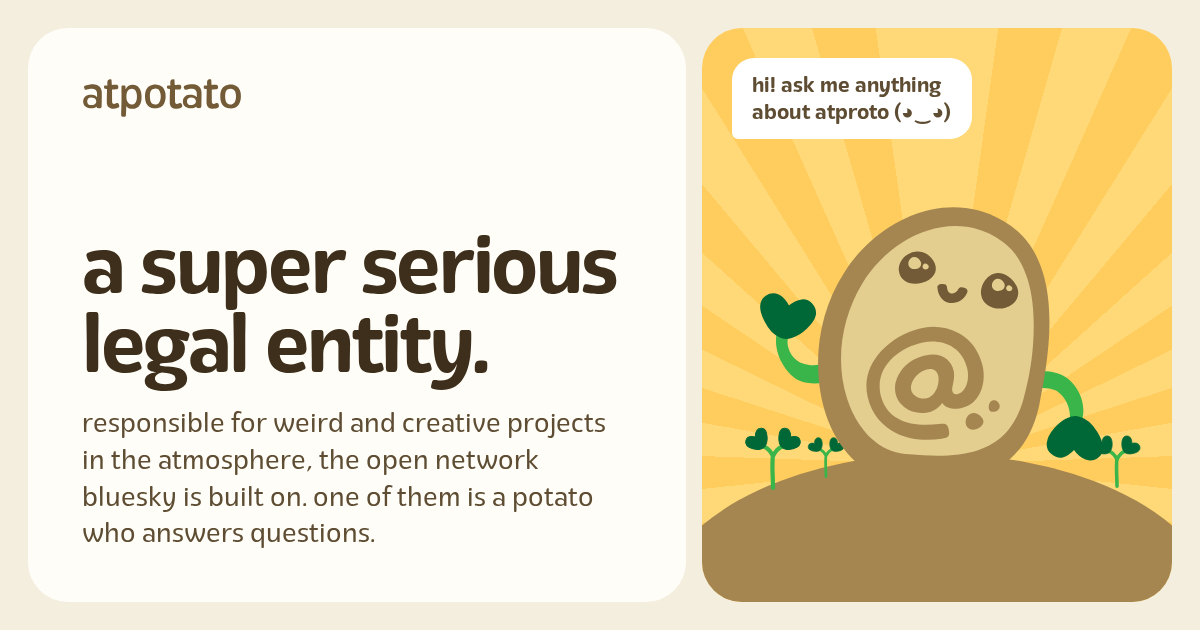
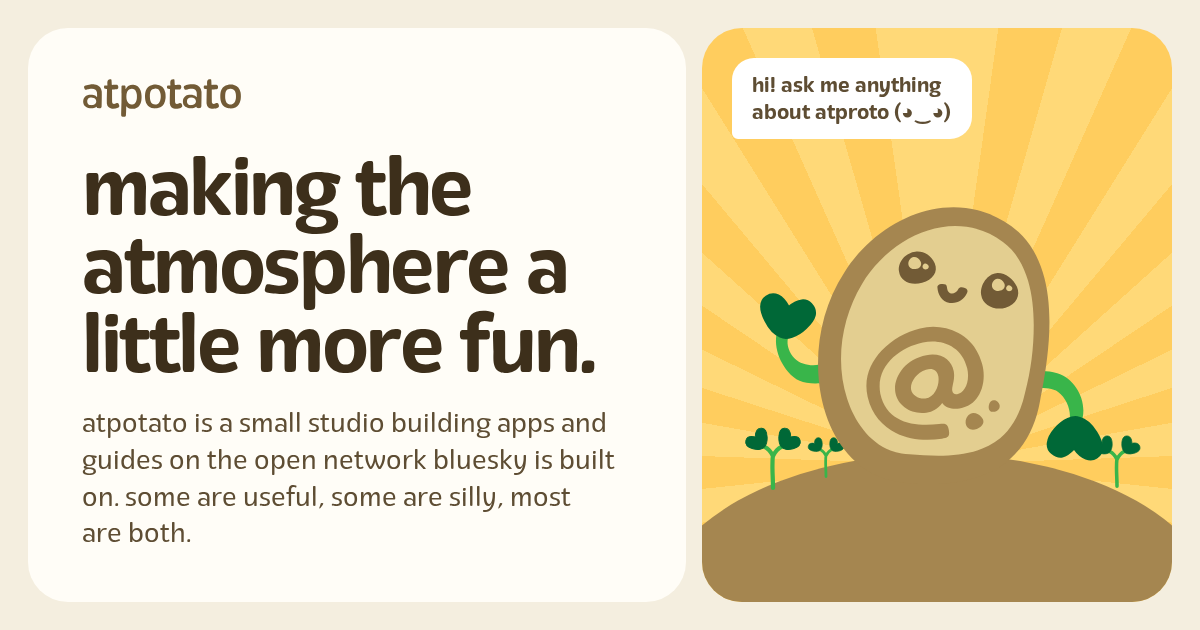
Retire the "super serious legal entity" tagline
The home hero now reads "making the atmosphere a little more fun.", with
"atpotato is a small studio building apps and guides on the open network
bluesky is built on. some are useful, some are silly, most are both." under
it. The footer, the home meta and Open Graph descriptions, and the home
card's alt text say the same, and public/og/home.png is re-rendered from the
new copy (the Vercel build re-renders it anyway).

The og-cards test compared the home lede to a fixed opening; it now compares
it to the page's own lede, so copy changes don't need a test change.

Claude-Session: https://claude.ai/code/session_013QGyCcKYtUYgtSnNsW49Fr

Changed region(s): [[0.0617, 0.2413, 0.5242, 0.6333], [0.0617, 0.6635, 0.5242, 0.8746]]

diff --git a/website/index.html b/website/index.html
@@ -7,7 +7,7 @@
     <meta name="viewport" content="width=device-width, initial-scale=1.0">
     <title>atpotato</title>
     <meta name="title" content="atpotato">
-    <meta name="description" content="a super serious legal entity responsible for weird and creative atmosphere projects. ask poe a question: @poe.atpota.to">
+    <meta name="description" content="atpotato is a small studio making the atmosphere a little more fun, with apps and guides on the open network bluesky is built on. ask poe a question: @poe.atpota.to">
     <link rel="canonical" href="https://atpota.to/">
     <meta name="color-scheme" content="light dark">
     <meta name="theme-color" content="#F4EEDF">
@@ -18,11 +18,11 @@
     <meta property="og:site_name" content="atpotato">
     <meta property="og:url" content="https://atpota.to/">
     <meta property="og:title" content="atpotato">
-    <meta property="og:description" content="a super serious legal entity responsible for weird and creative atmosphere projects. ask poe a question: @poe.atpota.to">
+    <meta property="og:description" content="atpotato is a small studio making the atmosphere a little more fun, with apps and guides on the open network bluesky is built on. ask poe a question: @poe.atpota.to">
     <meta property="og:image" content="https://atpota.to/og/home.png">
     <meta property="og:image:width" content="1200">
     <meta property="og:image:height" content="630">
-    <meta property="og:image:alt" content="atpotato: a super serious legal entity. poe, a smiling potato with an @ on its tummy, waves from a dirt mound under a yellow sunburst.">
+    <meta property="og:image:alt" content="atpotato: making the atmosphere a little more fun. poe, a smiling potato with an @ on its tummy, waves from a dirt mound under a yellow sunburst.">
     <!-- og images: scripts/og-cards.html, rendered with npm run og -->
     <meta name="twitter:card" content="summary_large_image">
 
@@ -50,8 +50,8 @@
       <div class="home-grid">
 
         <section class="tile home-hero" aria-labelledby="home-title">
-          <h1 class="home-hero__title" id="home-title">a super serious legal entity.</h1>
-          <p class="home-hero__lede">responsible for weird and creative projects in the atmosphere, the open network bluesky is built on. one of them is a potato who answers questions.</p>
+          <h1 class="home-hero__title" id="home-title">making the atmosphere a little more fun.</h1>
+          <p class="home-hero__lede">atpotato is a small studio building apps and guides on the open network bluesky is built on. some are useful, some are silly, most are both.</p>
           <div class="home-hero__actions">
             <a class="btn btn--primary" href="#projects">see what's growing
               <svg aria-hidden="true" focusable="false" viewBox="0 0 24 24" fill="none" stroke="currentColor" stroke-width="2.2" stroke-linecap="round" stroke-linejoin="round"><path d="M5 12h14M13 6l6 6-6 6"/></svg>

diff --git a/website/tests/og-cards.test.ts b/website/tests/og-cards.test.ts
@@ -47,9 +47,9 @@ describe('og cards: readCards', () => {
     expect(cards.home).toMatchObject({
       kind: 'home',
       title: home.querySelector('#home-title')!.textContent,
+      lede: home.querySelector('.home-hero__lede')!.textContent,
       bubble: home.body.dataset.poeNudge,
     });
-    expect(cards.home!.lede).toMatch(/^responsible for /);
 
     expect(cards.guides).toMatchObject({ kind: 'guides', chip: 'guides', title: 'atpotato guides' });
     for (const guide of GUIDES.documents) {

diff --git a/website/src/partials/footer.html b/website/src/partials/footer.html
@@ -8,7 +8,7 @@
         <p class="site-footer__wordmark" role="img" aria-label="atpotato">
           <!-- @svg wordmark.svg class="wordmark" -->
         </p>
-        <p class="site-footer__tagline">a super serious legal entity responsible for weird and creative atmosphere projects.</p>
+        <p class="site-footer__tagline">a small studio making the atmosphere a little more fun.</p>
       </div>
       <div class="site-footer__cols">
         <div class="site-footer__col">
